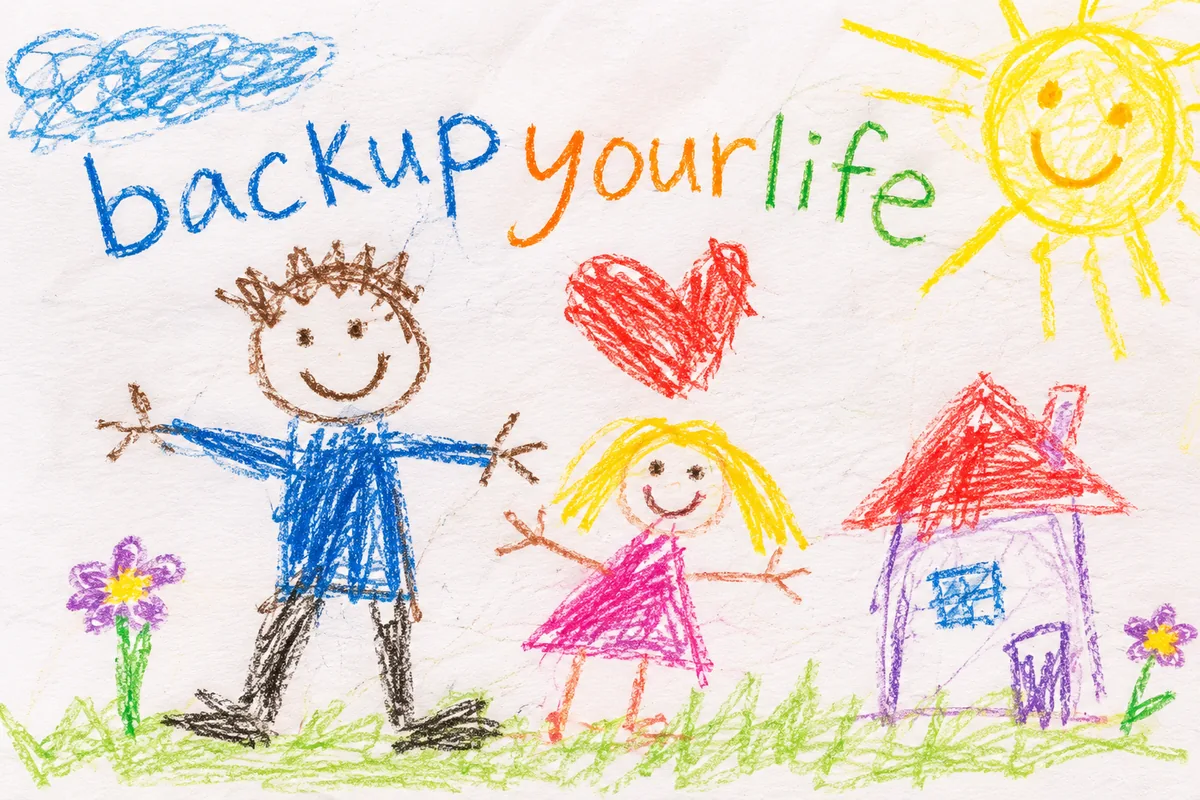
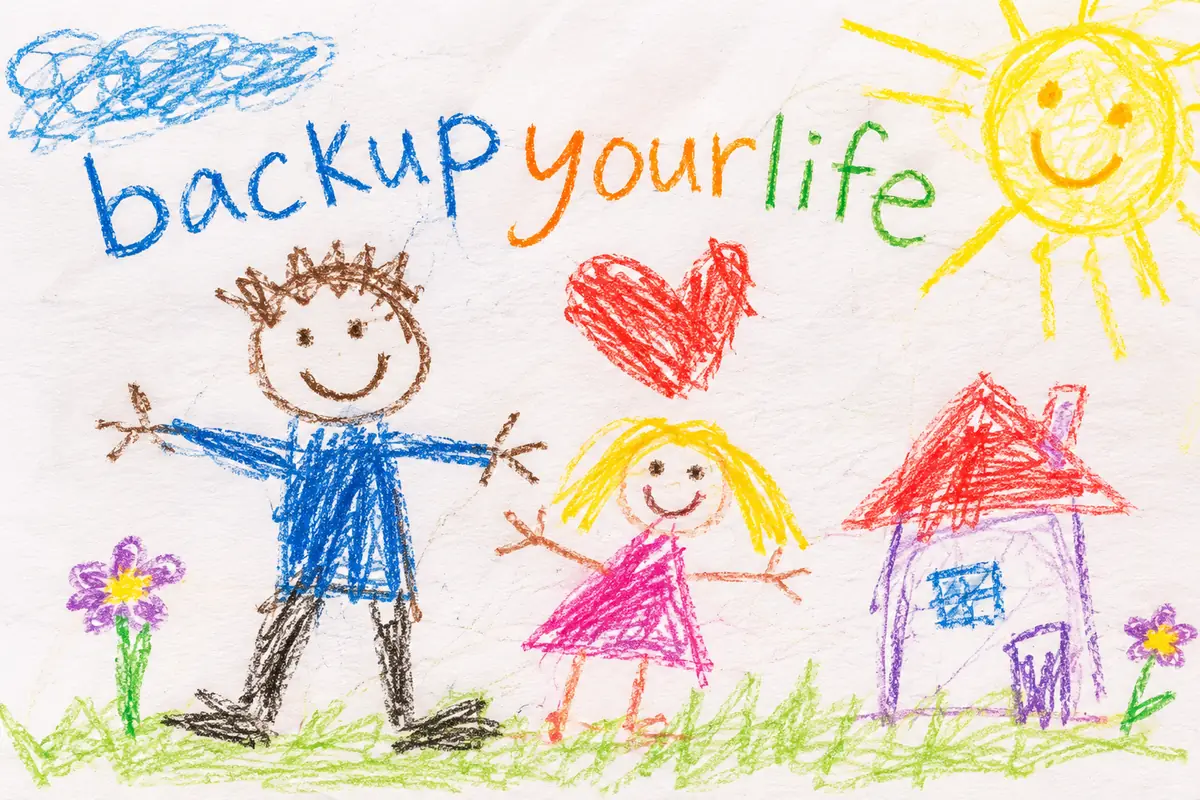
Bilder nur noch als WebP, stärker komprimiert, Server-Caching
- Alle Seitenbilder (Hero, Porträt, Kinderzeichnung) nur noch als WebP,
  JPEG-Kopien entfernt
- Neue Größen 480/800/1200 bzw. 400/600/1000 px, stärker komprimiert
  (Hero aufs Handy 37–116 KB statt 121 KB, Porträt 7–33 KB)
- .htaccess: WebP-Dateityp, gzip für Text-Dateien, Browser-Cache
  (CSS/JS 1 Jahr dank ?v=, Bilder 30 Tage, HTML immer frisch)

Claude-Session: https://claude.ai/code/session_01G1SrrBafUvLMS19Sb8bmXH

diff --git a/index.html b/index.html
@@ -6,8 +6,8 @@
     <title>backupyourlife – Wenn dein Einkommen wegfällt, bleibt deine Familie abgesichert.</title>
     <meta name="description" content="Wenn dein Einkommen wegfällt, laufen eure Kosten weiter. Finde in wenigen Minuten heraus, wie gut deine Familie finanziell geschützt ist – kostenlos und unverbindlich.">
     <link href="https://fonts.googleapis.com/css2?family=Bricolage+Grotesque:opsz,wght@12..96,400;12..96,500;12..96,800&family=Caveat+Brush&family=IBM+Plex+Mono:wght@400;500&display=swap" rel="stylesheet">
-    <link rel="preload" as="image" type="image/webp" imagesrcset="Bilder%20Website/papa-hebt-mich-hoch-720.webp 720w, Bilder%20Website/papa-hebt-mich-hoch-1200.webp 1200w" imagesizes="(max-width: 768px) 100vw, 560px" fetchpriority="high">
-    <link rel="stylesheet" href="styles.css?v=20261105c">
+    <link rel="preload" as="image" type="image/webp" imagesrcset="Bilder%20Website/papa-hebt-mich-hoch-480.webp 480w, Bilder%20Website/papa-hebt-mich-hoch-800.webp 800w, Bilder%20Website/papa-hebt-mich-hoch-1200.webp 1200w" imagesizes="(max-width: 768px) 100vw, 560px" fetchpriority="high">
+    <link rel="stylesheet" href="styles.css?v=20261105d">
     <link rel="icon" href="logo/favicon.svg" type="image/svg+xml">
 </head>
 <body class="has-jump-nav">
@@ -80,22 +80,17 @@
                     <p class="hero-reassurance">5 Minuten für den Check. 20 Minuten für Klarheit. Kostenlos und unverbindlich.</p>
                 </div>
                 <figure class="hero-drawing-frame">
-                    <picture>
-                        <source type="image/webp"
-                            srcset="Bilder%20Website/papa-hebt-mich-hoch-720.webp 720w, Bilder%20Website/papa-hebt-mich-hoch-1200.webp 1200w"
-                            sizes="(max-width: 768px) 100vw, 560px">
-                        <img
-                            src="Bilder%20Website/papa-hebt-mich-hoch-1200.jpg"
-                            srcset="Bilder%20Website/papa-hebt-mich-hoch-720.jpg 720w, Bilder%20Website/papa-hebt-mich-hoch-1200.jpg 1200w"
-                            sizes="(max-width: 768px) 100vw, 560px"
-                            width="1200" height="1200"
-                            alt="Kinderzeichnung: Papa hebt seine Tochter Mira hoch, daneben Sonne, Wolken und ein Herz"
-                            class="hero-photo"
-                            loading="eager"
-                            fetchpriority="high"
-                            decoding="async"
-                        >
-                    </picture>
+                    <img
+                        src="Bilder%20Website/papa-hebt-mich-hoch-800.webp"
+                        srcset="Bilder%20Website/papa-hebt-mich-hoch-480.webp 480w, Bilder%20Website/papa-hebt-mich-hoch-800.webp 800w, Bilder%20Website/papa-hebt-mich-hoch-1200.webp 1200w"
+                        sizes="(max-width: 768px) 100vw, 560px"
+                        width="1200" height="1200"
+                        alt="Kinderzeichnung: Papa hebt seine Tochter Mira hoch, daneben Sonne, Wolken und ein Herz"
+                        class="hero-photo"
+                        loading="eager"
+                        fetchpriority="high"
+                        decoding="async"
+                    >
                     <figcaption class="drawing-caption">Mira, 6 · „Mein Papa und ich"</figcaption>
                 </figure>
             </div>
@@ -343,10 +338,7 @@
             <h2 class="section-headline">Ich weiß, wie es ist, wenn das Leben <span class="highlight">nicht</span> nach Plan läuft.</h2>
             <div class="person-grid">
                 <figure class="person-photo-frame">
-                    <picture>
-                        <source type="image/webp" srcset="Bilder%20Website/portrait-600.webp 600w, Bilder%20Website/portrait-1000.webp 1000w" sizes="(max-width: 768px) 100vw, 480px">
-                        <img src="Bilder%20Website/portrait-1000.jpg" srcset="Bilder%20Website/portrait-600.jpg 600w, Bilder%20Website/portrait-1000.jpg 1000w" sizes="(max-width: 768px) 100vw, 480px" width="1000" height="1277" alt="Porträt des Gründers von backupyourlife, lächelnd in hellem Hemd" class="person-photo" loading="lazy" decoding="async">
-                    </picture>
+                    <img src="Bilder%20Website/portrait-600.webp" srcset="Bilder%20Website/portrait-400.webp 400w, Bilder%20Website/portrait-600.webp 600w, Bilder%20Website/portrait-1000.webp 1000w" sizes="(max-width: 768px) 100vw, 480px" width="1000" height="1277" alt="Porträt des Gründers von backupyourlife, lächelnd in hellem Hemd" class="person-photo" loading="lazy" decoding="async">
                     <figcaption class="drawing-caption">[Vorname Nachname] · Gründer von backupyourlife · Versicherungsmakler</figcaption>
                 </figure>
                 <div class="person-text">
@@ -762,7 +754,7 @@
         </div>
     </div>
 
-    <script src="script.js?v=20261105c"></script>
-    <script src="quiz.js?v=20261105c"></script>
+    <script src="script.js?v=20261105d"></script>
+    <script src="quiz.js?v=20261105d"></script>
 </body>
 </html>

diff --git a/ueber-uns.html b/ueber-uns.html
@@ -6,7 +6,7 @@
     <title>Über mich – backupyourlife</title>
     <meta name="description" content="Ich bin [Name]. Ich hab backupyourlife gegründet, weil es mir selbst gefehlt hat. Hier findest du meine Geschichte und wofür ich stehe.">
     <link href="https://fonts.googleapis.com/css2?family=Bricolage+Grotesque:opsz,wght@12..96,400;12..96,500;12..96,800&family=Caveat+Brush&family=IBM+Plex+Mono:wght@400;500&display=swap" rel="stylesheet">
-    <link rel="stylesheet" href="styles.css?v=20261105c">
+    <link rel="stylesheet" href="styles.css?v=20261105d">
     <link rel="icon" href="logo/favicon.svg" type="image/svg+xml">
 </head>
 <body>
@@ -59,16 +59,10 @@
             <div class="about-grid">
 
                 <div class="about-photo-col">
-                    <picture>
-                        <source type="image/webp" srcset="Bilder%20Website/portrait-600.webp 600w, Bilder%20Website/portrait-1000.webp 1000w" sizes="(max-width: 768px) 100vw, 420px">
-                        <img src="Bilder%20Website/portrait-1000.jpg" srcset="Bilder%20Website/portrait-600.jpg 600w, Bilder%20Website/portrait-1000.jpg 1000w" sizes="(max-width: 768px) 100vw, 420px" width="1000" height="1277" alt="Porträt des Gründers von backupyourlife, lächelnd in hellem Hemd" class="person-photo" loading="lazy" decoding="async">
-                    </picture>
+                    <img src="Bilder%20Website/portrait-600.webp" srcset="Bilder%20Website/portrait-400.webp 400w, Bilder%20Website/portrait-600.webp 600w, Bilder%20Website/portrait-1000.webp 1000w" sizes="(max-width: 768px) 100vw, 420px" width="1000" height="1277" alt="Porträt des Gründers von backupyourlife, lächelnd in hellem Hemd" class="person-photo" loading="lazy" decoding="async">
 
                     <figure class="about-drawing-frame">
-                        <picture>
-                            <source type="image/webp" srcset="Bilder%20Website/zeichnung-backupyourlife-720.webp 720w, Bilder%20Website/zeichnung-backupyourlife-1200.webp 1200w" sizes="(max-width: 768px) 100vw, 420px">
-                            <img src="Bilder%20Website/zeichnung-backupyourlife-1200.jpg" srcset="Bilder%20Website/zeichnung-backupyourlife-720.jpg 720w, Bilder%20Website/zeichnung-backupyourlife-1200.jpg 1200w" sizes="(max-width: 768px) 100vw, 420px" width="1200" height="800" alt="Kinderzeichnung mit dem Schriftzug backupyourlife: Papa und Tochter halten sich an der Hand, daneben Herz, Haus, Sonne und Blumen" class="about-drawing" loading="lazy" decoding="async">
-                        </picture>
+                        <img src="Bilder%20Website/zeichnung-backupyourlife-800.webp" srcset="Bilder%20Website/zeichnung-backupyourlife-480.webp 480w, Bilder%20Website/zeichnung-backupyourlife-800.webp 800w, Bilder%20Website/zeichnung-backupyourlife-1200.webp 1200w" sizes="(max-width: 768px) 100vw, 420px" width="1200" height="800" alt="Kinderzeichnung mit dem Schriftzug backupyourlife: Papa und Tochter halten sich an der Hand, daneben Herz, Haus, Sonne und Blumen" class="about-drawing" loading="lazy" decoding="async">
                         <figcaption class="drawing-caption">Kinderzeichnung · „backupyourlife"</figcaption>
                     </figure>
                 </div>
@@ -171,7 +165,7 @@
         </div>
     </div>
 
-    <script src="script.js?v=20261105c"></script>
-    <script src="quiz.js?v=20261105c"></script>
+    <script src="script.js?v=20261105d"></script>
+    <script src="quiz.js?v=20261105d"></script>
 </body>
 </html>

diff --git a/fragen.html b/fragen.html
@@ -6,7 +6,7 @@
     <title>Fragen und Antworten – backupyourlife</title>
     <meta name="description" content="Die häufigsten Fragen zu Berufsunfähigkeit, Schwere Krankheiten und Risikoleben – ehrlich beantwortet.">
     <link href="https://fonts.googleapis.com/css2?family=Bricolage+Grotesque:opsz,wght@12..96,400;12..96,500;12..96,800&family=Caveat+Brush&family=IBM+Plex+Mono:wght@400;500&display=swap" rel="stylesheet">
-    <link rel="stylesheet" href="styles.css?v=20261105c">
+    <link rel="stylesheet" href="styles.css?v=20261105d">
     <link rel="icon" href="logo/favicon.svg" type="image/svg+xml">
     <script type="application/ld+json">
 {
@@ -366,7 +366,7 @@
         </div>
     </div>
 
-    <script src="script.js?v=20261105c"></script>
-    <script src="quiz.js?v=20261105c"></script>
+    <script src="script.js?v=20261105d"></script>
+    <script src="quiz.js?v=20261105d"></script>
 </body>
 </html>
